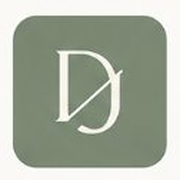
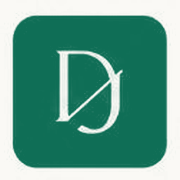
Monograma real (teal) + fixes mobile + footer + copy
- Logo: reemplaza el puente "DJ" por el monograma aprobado recoloreado a
  teal (nav) y crema (footer). Favicon, apple-touch y .ico tambien al teal.
- tools/monogram: pipeline reusable (recolorea desde un master con 1 comando),
  para ajustar el monograma a futuro sin rediseñar.
- Mobile: arregla el corte del inicio (nav fija + la marca que envolvia a 2
  lineas). Nuevos breakpoints 600/380, menos espacio vacio, "Lic." oculto
  en celular y logo-solo en pantallas muy chicas.
- Footer: separador de contacto prolijo (punto) + menos espacio vacio.
- Copy: ajuste de puntuacion en about_p5 (ES).

diff --git a/src/index.css b/src/index.css
@@ -55,6 +55,7 @@ body {
   color: var(--teal-dark);
   letter-spacing: 0.5px;
   text-decoration: none;
+  white-space: nowrap;
 }
 .nav-logo {
   width: 34px;
@@ -63,8 +64,6 @@ body {
   flex-shrink: 0;
   transition: transform 0.4s cubic-bezier(0.22, 1, 0.36, 1);
 }
-.nav-logo .mono-badge { fill: var(--teal); }
-.nav-logo .mono-letters { fill: var(--cream); }
 .nav-brand:hover .nav-logo { transform: rotate(-6deg) scale(1.05); }
 .nav-links {
   display: flex;
@@ -605,7 +604,7 @@ section { padding: 120px 40px; position: relative; }
 footer {
   background: var(--teal-dark);
   color: var(--teal-faint);
-  padding: 64px 40px 32px;
+  padding: 56px 40px 30px;
   text-align: center;
   font-size: 13px;
   letter-spacing: 0.3px;
@@ -626,7 +625,7 @@ footer::before {
   justify-content: center;
   align-items: center;
   gap: 16px;
-  margin-bottom: 32px;
+  margin-bottom: 24px;
 }
 .footer-ornament .dot {
   width: 6px; height: 6px;
@@ -647,13 +646,12 @@ footer::before {
   50% { opacity: 0.7; }
 }
 .footer-logo {
-  width: 46px;
-  height: 46px;
+  width: 50px;
+  height: 50px;
   display: block;
-  margin: 0 auto 14px;
+  margin: 0 auto 16px;
+  opacity: 0.95;
 }
-.footer-logo .mono-badge { fill: none; stroke: var(--teal-soft); stroke-width: 1; opacity: 0.5; }
-.footer-logo .mono-letters { fill: var(--teal-faint); }
 .footer-name {
   font-family: var(--serif);
   font-size: 28px;
@@ -675,17 +673,26 @@ footer::before {
   text-transform: uppercase;
   color: var(--teal-soft);
   opacity: 0.6;
-  margin-bottom: 32px;
+  margin-bottom: 28px;
 }
 .footer-contact {
   display: flex;
   justify-content: center;
-  gap: 24px;
+  align-items: center;
+  gap: 16px;
   flex-wrap: wrap;
   margin-bottom: 16px;
   font-size: 13px;
-  padding-top: 24px;
+  padding-top: 22px;
   border-top: 1px solid rgba(159, 225, 203, 0.15);
+}
+.footer-contact-sep {
+  width: 4px;
+  height: 4px;
+  border-radius: 50%;
+  background: var(--teal-soft);
+  opacity: 0.5;
+  flex-shrink: 0;
 }
 .footer-contact a {
   color: var(--teal-faint);
@@ -731,7 +738,7 @@ footer::before {
   .nav-links { display: none; }
   .nav-burger { display: flex; }
   .nav-mobile { display: flex; }
-  .hero { padding: 100px 24px 60px; flex-direction: column; }
+  .hero { padding: 112px 24px 56px; flex-direction: column; }
   .hero-content { text-align: center; }
   .hero-text { max-width: 100%; }
   .hero-eyebrow, .hero-headline { margin-left: auto; margin-right: auto; }
@@ -765,6 +772,21 @@ footer::before {
   .first-session-card { padding: 32px 24px; }
   .first-session-headline { font-size: 24px; }
   .first-session-steps { grid-template-columns: 1fr; gap: 24px; }
+}
+
+@media (max-width: 600px) {
+  .nav { padding: 14px 18px; }
+  .nav-brand-prefix { display: none; }
+  .lang-btn { padding: 6px 11px; }
+  .hero { padding: 104px 18px 48px; }
+  .hero-eyebrow { margin-bottom: 24px; }
+  section { padding: 60px 20px; }
+  footer { padding: 48px 24px 28px; }
+}
+
+@media (max-width: 380px) {
+  .nav-brand-text { display: none; }
+  .lang-btn { padding: 6px 9px; }
 }
 
 [dir="rtl"] .hero-name { letter-spacing: 0; }

diff --git a/src/translations.js b/src/translations.js
@@ -25,7 +25,7 @@ export const translations = {
     about_p2: 'También soy un joven judío uruguayo, hijo único, futbolero y apasionado por lo que hago. Hablo español, inglés, y cada día mejoro un poco más mi hebreo. Fui toda mi vida a colegio judío y a la <em>tnuá</em>. Viví un año en Israel durante mi <em>shnat hajshará</em>, y dediqué tres años de mi vida a devolverle a la <em>tnuá</em> todo lo que me dio, aportando a la comunidad desde adentro.',
     about_p3: 'En 2023 mis padres hicieron <em>aliá</em>. Yo tomé la difícil decisión de quedarme en Uruguay, en mi casa. Desde entonces vi de cerca una realidad que muchos atraviesan: en este tiempo pasaron más meses en guerra que en paz.',
     about_p4: 'Si lo que buscás es cercanía con empatía real, entendimiento y claridad, y no perder el tiempo explicando conceptos que solo podés entender viviéndolos — entonces este puede ser el espacio que estás buscando.',
-    about_p5: 'Mi enfoque está en ayudar a jóvenes y adultos a encontrar un espacio ante todo sano, donde la claridad y el equilibrio son la base del trabajo.',
+    about_p5: 'Mi enfoque está en ayudar a jóvenes y adultos a encontrar un espacio, por sobre todo, sano; donde la claridad y el equilibrio son la base del trabajo.',
 
     help_eyebrow: 'EN QUÉ TE PUEDO AYUDAR',
     help_title_a: 'Procesos que ',

diff --git a/src/components/Footer.jsx b/src/components/Footer.jsx
@@ -1,5 +1,3 @@
-import Monogram from './Monogram'
-
 export default function Footer({ t, waUrl, mailUrl }) {
   return (
     <footer>
@@ -10,13 +8,13 @@ export default function Footer({ t, waUrl, mailUrl }) {
         <div className="dot"></div>
         <div className="line"></div>
       </div>
-      <Monogram className="footer-logo" />
+      <img className="footer-logo" src="/dj-monograma-cream.png" alt="" aria-hidden="true" />
       <div className="footer-name">Diego Jurfest</div>
       <div className="footer-credential">{t.footer_credential}</div>
       <div className="footer-services">{t.footer_services}</div>
       <div className="footer-contact">
         <a href={waUrl} target="_blank" rel="noopener noreferrer" onClick={() => window.gtag?.('event', 'whatsapp_click', { location: 'footer' })}>WhatsApp · +598 93 383 251</a>
-        <span>·</span>
+        <span className="footer-contact-sep" aria-hidden="true"></span>
         <a href={mailUrl}>diegojurfest@gmail.com</a>
       </div>
       <div className="footer-meta">{t.footer_meta}</div>

diff --git a/src/components/Nav.jsx b/src/components/Nav.jsx
@@ -1,5 +1,4 @@
 import { useState } from 'react'
-import Monogram from './Monogram'
 
 export default function Nav({ t, lang, setLang }) {
   const [open, setOpen] = useState(false)
@@ -15,8 +14,8 @@ export default function Nav({ t, lang, setLang }) {
   return (
     <nav className="nav">
       <a className="nav-brand" href="#top">
-        <Monogram className="nav-logo" />
-        <span>Lic. Diego Jurfest</span>
+        <img className="nav-logo" src="/dj-monograma-teal.png" alt="" aria-hidden="true" />
+        <span className="nav-brand-text"><span className="nav-brand-prefix">Lic. </span>Diego Jurfest</span>
       </a>
 
       <div className="nav-links">

diff --git a/tools/monogram/README.md b/tools/monogram/README.md
@@ -1,0 +1,31 @@
+# Monograma DJ — pipeline de assets
+
+El monograma de la marca vive como **un solo master** (`master-sage.png`, el diseño
+aprobado original) y se **recolorea por código** a todos los formatos que usa el sitio.
+Así, cambiar el color o regenerar los íconos es trivial y no requiere rediseñar nada.
+
+## Regenerar todo
+
+```bash
+bash tools/monogram/build.sh
+```
+
+Genera en `/public`:
+
+| Archivo | Uso |
+|---|---|
+| `dj-monograma-teal.png` | logo del nav (insignia teal, fondo transparente) |
+| `dj-monograma-cream.png` | logo del footer (letras crema sobre fondo oscuro) |
+| `favicon.png` / `favicon-32.png` / `favicon-16.png` | íconos de pestaña |
+| `favicon.ico` | ícono legacy |
+| `apple-touch-icon.png` | ícono iOS (opaco, esquinas crema) |
+
+## Cambiar el color
+
+Editá la constante `TEAL` en `recolor.cjs` (hoy `#0F6E56`) y volvé a correr `build.sh`.
+El script remapea el eje sage→cream del master hacia (nuevo color)→cream **conservando
+exactamente las formas de letra y el suavizado** — no redibuja nada.
+
+## Requisitos
+- `pngjs` (devDependency, ya en package.json)
+- `sips` (incluido en macOS) para los downscales de favicon
